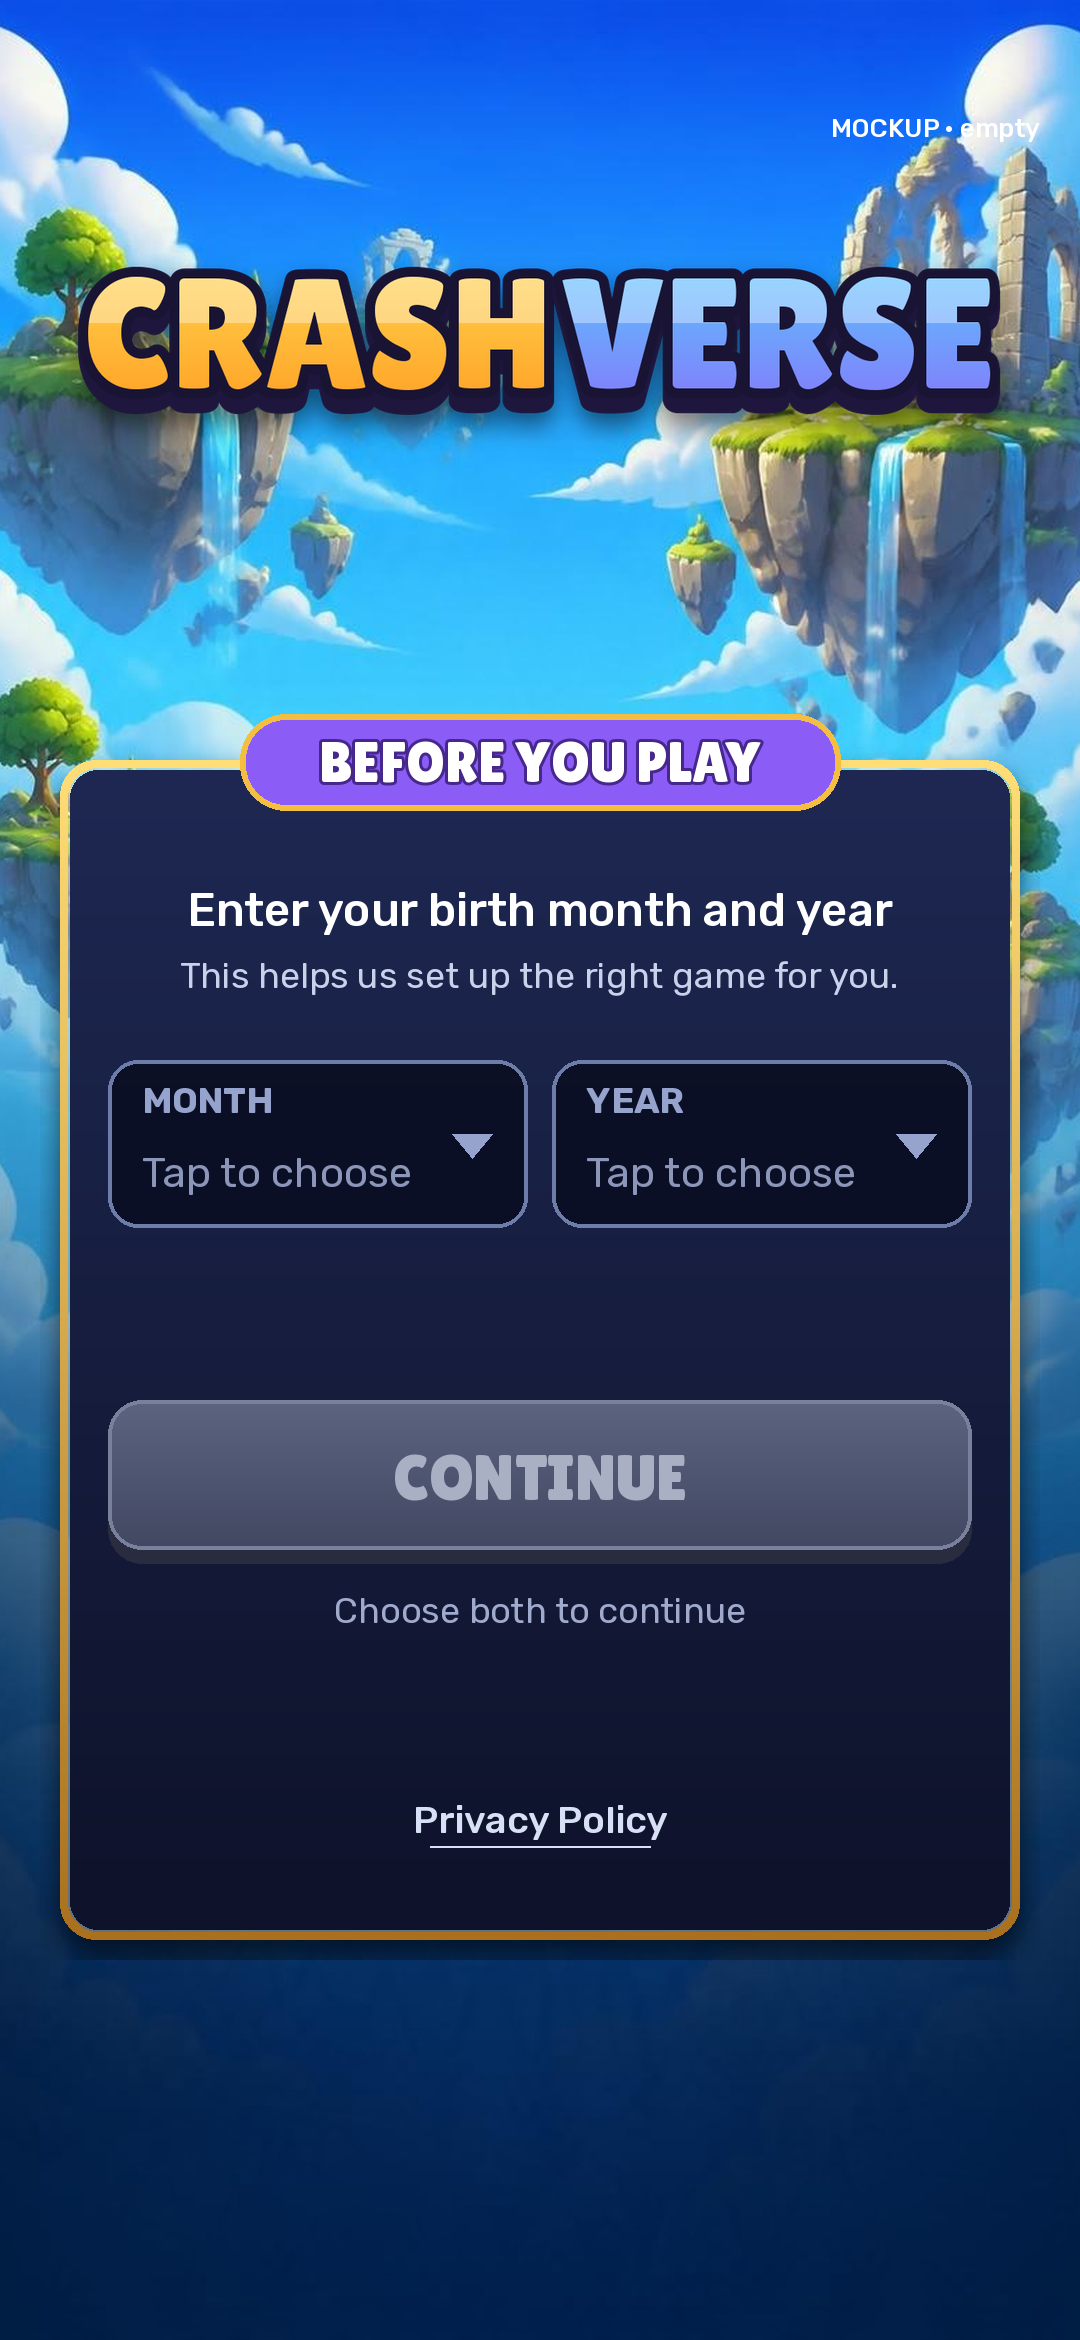
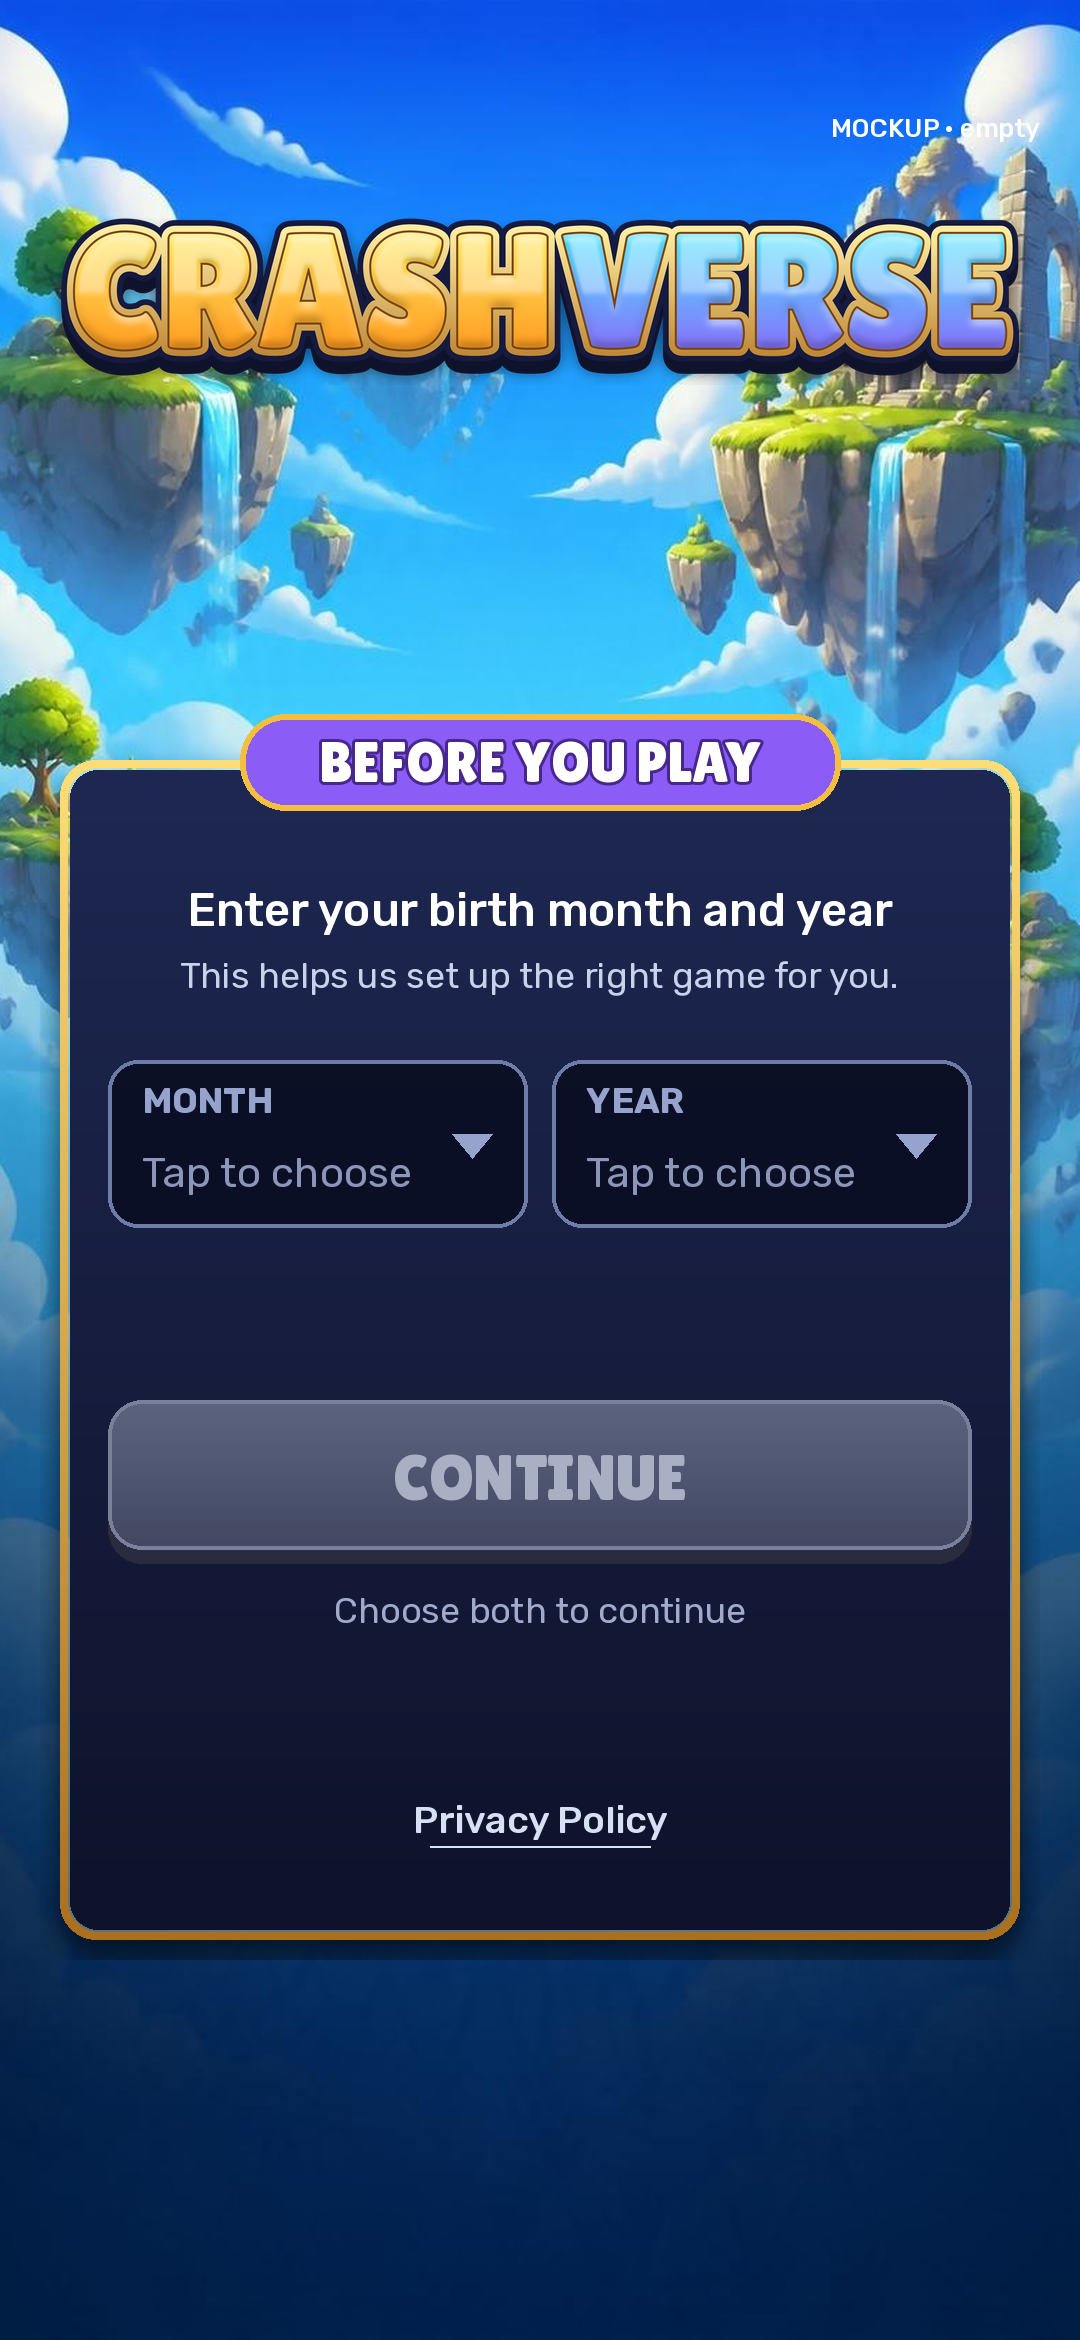
Art: official CRASHVERSE wordmark (Brand/) + age gate uses it

Changed region(s): [[0.0306, 0.0936, 0.9472, 0.1872]]

diff --git a/Assets/_Project/ArtReference/Brand/make_wordmark.py b/Assets/_Project/ArtReference/Brand/make_wordmark.py
@@ -1,0 +1,66 @@
+from PIL import Image, ImageDraw, ImageFont, ImageFilter, ImageChops
+import numpy as np
+LIL='/usr/share/fonts/truetype/sand-box/google/Lilita One/LilitaOne-Regular.ttf'
+S=2  # supersample
+f=ImageFont.truetype(LIL,400*S)
+parts=[('CRASH',(255,228,92),(255,138,18)),('VERSE',(86,222,255),(146,88,250))]
+gap=16*S; ws=[f.getbbox(t)[2]-f.getbbox(t)[0] for t,*_ in parts]
+pad=140*S; W=sum(ws)+gap+2*pad; H=f.getbbox('CRASHVERSE')[3]+2*pad
+oy=pad-f.getbbox('C')[1]
+def mask(stroke=0,only=None):
+    m=Image.new('L',(W,H),0); d=ImageDraw.Draw(m); x=pad
+    for i,((t,*_),w) in enumerate(zip(parts,ws)):
+        if only is None or only==i: d.text((x-f.getbbox(t)[0],oy),t,font=f,fill=255,stroke_width=stroke,stroke_fill=255)
+        x+=w+gap
+    return m
+def vgrad(c1,c2,y0,y1):
+    t=np.clip((np.arange(H)[:,None]-y0)/(y1-y0),0,1)[...,None]
+    a=np.array(c1)*(1-t)+np.array(c2)*t; return np.broadcast_to(a,(H,W,3)).astype(np.uint8)
+ty0=pad; ty1=H-pad
+out=np.zeros((H,W,4),float)
+def put(rgb,m):
+    a=np.asarray(m,float)[...,None]/255; out[...,:3]=out[...,:3]*(1-a)+rgb*a; out[...,3]=np.maximum(out[...,3],a[...,0]*255) if True else 0
+navy=np.array([22,26,62]); 
+outer=mask(34*S); gold=mask(20*S); face=mask()
+# drop shadow
+sh=outer.filter(ImageFilter.GaussianBlur(18*S)); sh=ImageChops.offset(sh,0,26*S)
+put(np.zeros(3),sh.point(lambda v:v*0.55))
+# extrusion (navy, deep)
+for dy in range(30*S,0,-2*S): put(navy*0.7,ImageChops.offset(outer,0,dy))
+put(navy,outer)
+# gold bevel rim with gradient
+put(vgrad((255,236,160),(176,112,30),ty0,ty1).astype(float),gold)
+# inner dark line
+put(np.array([120,70,20]),mask(5*S))
+# faces
+fm=np.asarray(face,float)
+for i,(t,c1,c2) in enumerate(parts):
+    put(vgrad(c1,c2,ty0+20*S,ty1-20*S).astype(float),mask(only=i))
+# inner bevel: darken bottom edge, lighten top edge
+fa=fm/255; b=np.asarray(face.filter(ImageFilter.GaussianBlur(10*S)),float)/255
+up=np.roll(b,8*S,0); dn=np.roll(b,-8*S,0)
+lit=np.clip(b-up,0,1)*fa; drk=np.clip(b-dn,0,1)*fa
+out[...,:3]=out[...,:3]*(1-drk[...,None]*0.6)
+out[...,:3]=out[...,:3]+(255-out[...,:3])*np.clip(lit*1.4,0,1)[...,None]
+# gloss band on upper half
+er=np.asarray(face.filter(ImageFilter.MinFilter(int(18*S)|1)).filter(ImageFilter.GaussianBlur(3*S)),float)/255
+yy=np.arange(H)[:,None]; band=((yy>ty0)&(yy<ty0+(ty1-ty0)*0.40)).astype(float)
+band=np.asarray(Image.fromarray((band*255).astype(np.uint8)).filter(ImageFilter.GaussianBlur(6*S)),float)/255
+g=er*band*0.38; out[...,:3]=out[...,:3]+(255-out[...,:3])*g[...,None]
+img=Image.fromarray(out.clip(0,255).astype(np.uint8),'RGBA')
+img=img.crop(img.getchannel('A').point(lambda v:255 if v>8 else 0).getbbox())
+def fit(im,w): return im.resize((w,round(im.height*w/im.width)),Image.LANCZOS)
+main=fit(img,2048); main.save('crashverse_wordmark.png')
+fit(img,1024).save('crashverse_wordmark_1024.png'); fit(img,512).save('crashverse_wordmark_512.png')
+# single colour (white, with alpha) — silhouette of outer shape with face cutout
+mono=Image.new('RGBA',main.size,(255,255,255,0)); a=main.getchannel('A').point(lambda v:255 if v>128 else int(v*2))
+mono.putalpha(a); mono.save('crashverse_wordmark_mono_white.png')
+mb=Image.new('RGBA',main.size,(22,26,62,0)); mb.putalpha(a); mb.save('crashverse_wordmark_mono_navy.png')
+# preview
+pw=fit(img,900); P=Image.new('RGBA',(2000,600))
+nav=Image.new('RGBA',(1000,600),(16,22,52,255))
+sk=Image.fromarray(vgrad((40,110,230),(150,210,255),0,600)[:600,:1000]).convert('RGBA')
+P.paste(nav,(0,0)); P.paste(sk,(1000,0))
+for x in (50,1050): P.alpha_composite(pw,(x,(600-pw.height)//2))
+P.convert('RGB').save('wordmark_preview_on_navy_and_sky.png')
+print(main.size)

diff --git a/Assets/_Project/ArtReference/AgeGate/src/build.py b/Assets/_Project/ArtReference/AgeGate/src/build.py
@@ -88,6 +88,8 @@ medallion(300).save('slices/block_medallion_300.png')
 lock='/workspace/art/v1/crashverse_title_lockup.png'
 login=Image.open('/workspace/art/v2/screens/01_login.png').convert('RGBA')
 def title_logo():
+    o=Image.open('/workspace/art/v1/brand/crashverse_wordmark.png').convert('RGBA'); return o.resize((980,round(o.height*980/o.width)),Image.LANCZOS)
+def _old_title_logo():
     import numpy as np
     f=lil(190); parts=[('CRASH',((255,226,90),(255,140,20))),('VERSE',((80,220,255),(150,90,250)))]
     ws=[f.getbbox(t)[2] for t,_ in parts]; tw=sum(ws)+10; th=230

diff --git a/Assets/_Project/ArtReference/Brand/README.md b/Assets/_Project/ArtReference/Brand/README.md
@@ -1,0 +1,9 @@
+# CRASHVERSE wordmark (official, v1)
+Original art, built in PIL by `make_wordmark.py` (Lilita One, OFL). It isn't traced from any reference.
+- `crashverse_wordmark.png`: 2048px wide, transparent. Use this master.
+- `crashverse_wordmark_1024.png` and `crashverse_wordmark_512.png`: downscaled versions.
+- `crashverse_wordmark_mono_white.png` and `crashverse_wordmark_mono_navy.png`: single-colour silhouettes, for watermarks and one-colour print.
+- `wordmark_preview_on_navy_and_sky.png`: legibility check.
+
+Colours: CRASH is a gradient from #FFE45C to #FF8A12, and VERSE runs from #56DEFF to #9258FA. The rim is a gold gradient from #FFECA0 to #B0701E. The extrusion and outline are navy #161A3E, with a soft drop shadow underneath.
+Clear space: keep at least the height of one letter "C" × 0.25 clear on all sides. The minimum width is 360px. Don't recolour it, stretch it or add effects.
